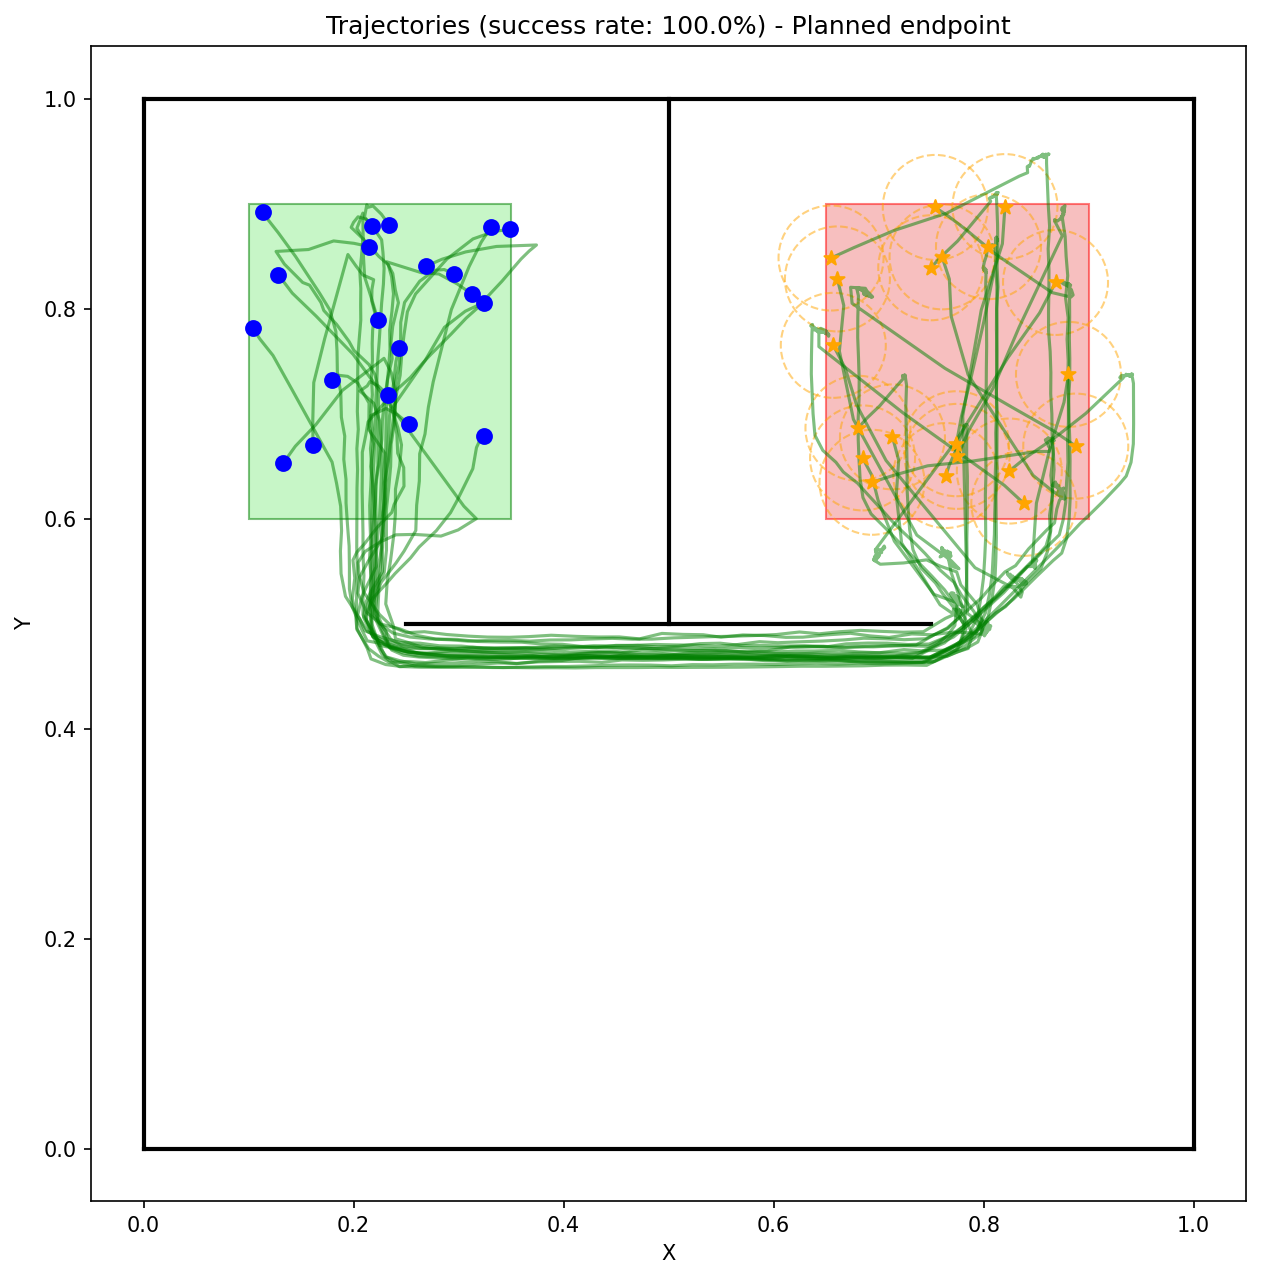
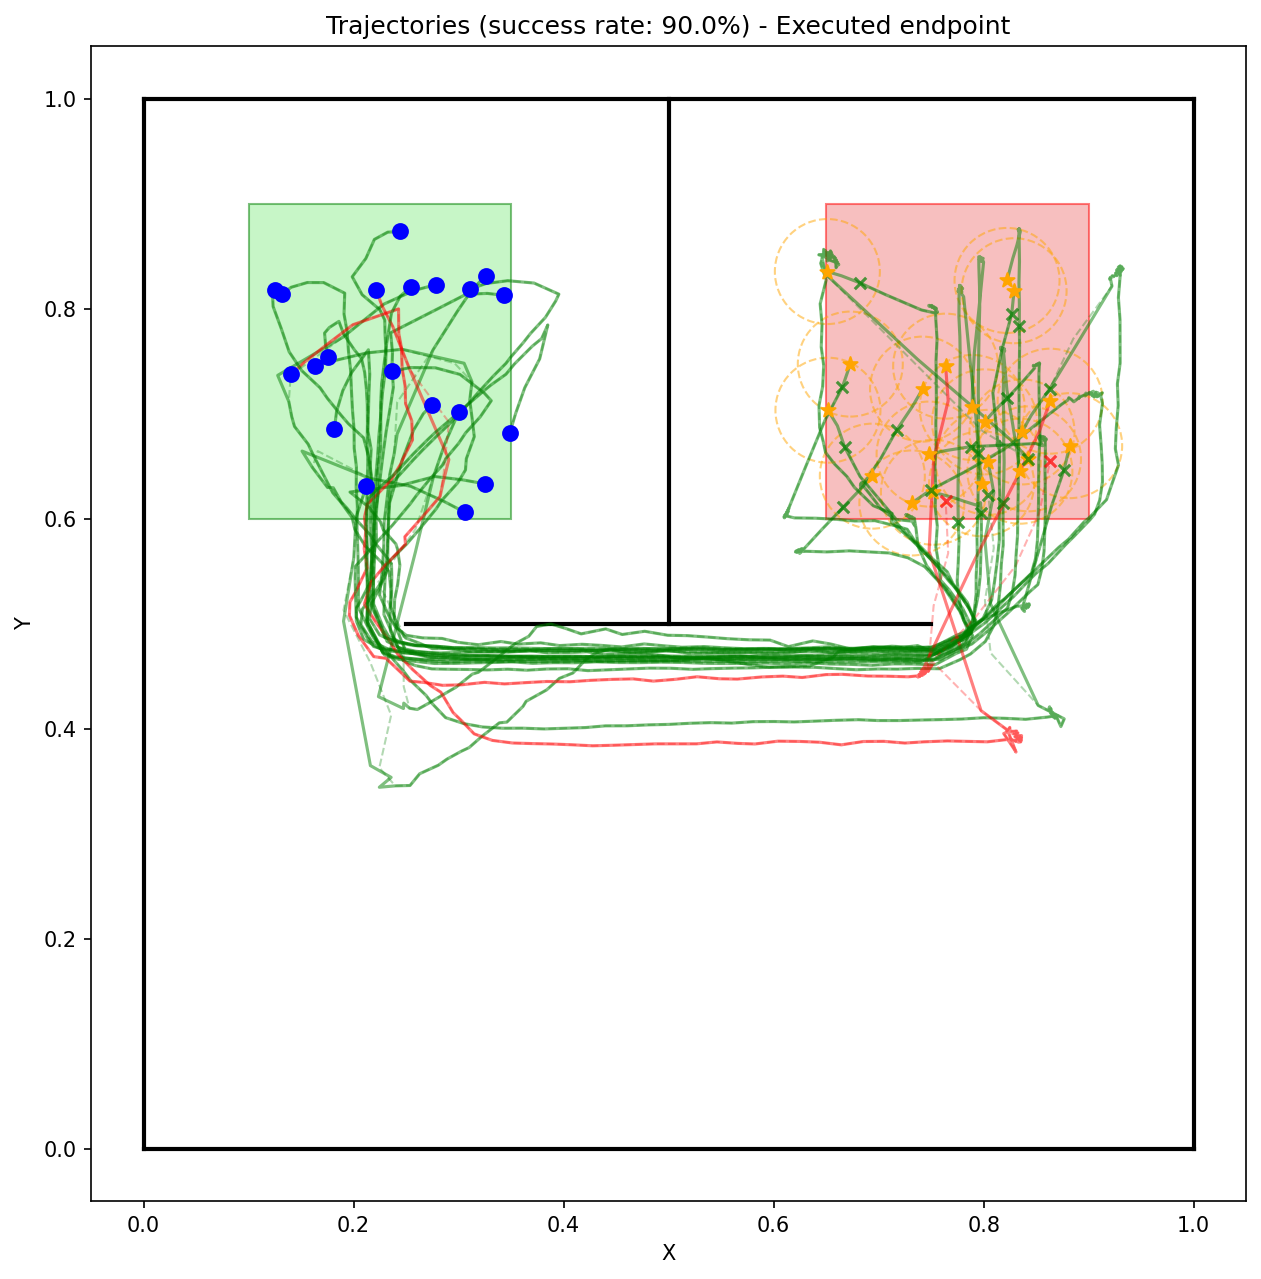
added inverted umaze and smaze layouts for evaluation purposes

diff --git a/maze2d.py b/maze2d.py
@@ -20,6 +20,19 @@ MAZE_CONFIGS = {
         "goal_region": (0.65, 0.6, 0.9, 0.9),  # top-right
     },
 
+    "umaze-inv": {  # Swapped start/goal. To be used during evaluation to test for generalization
+        "walls": [
+            (0.0, 0.0, 1.0, 0.0),
+            (0.0, 1.0, 1.0, 1.0),
+            (0.0, 0.0, 0.0, 1.0),
+            (1.0, 0.0, 1.0, 1.0),
+            (0.25, 0.5, 0.75, 0.5),
+            (0.5, 0.5, 0.5, 1.0),
+        ],
+        "start_region": (0.65, 0.6, 0.9, 0.9),
+        "goal_region": (0.1, 0.6, 0.35, 0.9),
+    },
+
     "smaze": {
         "walls": [
             (0.0, 0.0, 1.0, 0.0),  # bottom
@@ -32,6 +45,20 @@ MAZE_CONFIGS = {
         ],
         "start_region": (0.80, 0.67, 1.0, 1.0),
         "goal_region": (0.0, 0.0, 0.20, 0.33),
+    },
+
+    "smaze-inv": {  # Swapped start/goal. To be used during evaluation to test for generalization
+        "walls": [
+            (0.0, 0.0, 1.0, 0.0),
+            (0.0, 1.0, 1.0, 1.0),
+            (0.0, 0.0, 0.0, 1.0),
+            (1.0, 0.0, 1.0, 1.0),
+
+            (0.30, 0.67, 1.0, 0.67),
+            (0.0, 0.33, 0.70, 0.33),
+        ],
+        "start_region": (0.0, 0.0, 0.20, 0.33),
+        "goal_region": (0.80, 0.67, 1.0, 1.0),
     },
 
     "simple": {

diff --git a/evaluate.py b/evaluate.py
@@ -409,7 +409,7 @@ def evaluate(diffusion, normalizer, env, num_episodes=10, horizon=128, device=to
 def main():
     parser = argparse.ArgumentParser(description="Evaluate Diffuser model")
     parser.add_argument("--checkpoint", type=str, default="checkpoints/final_model.pt")
-    parser.add_argument("--maze-type", type=str, default="umaze", choices=["umaze", "smaze", "simple"])
+    parser.add_argument("--maze-type", type=str, default="umaze", choices=["umaze", "umaze-inv", "smaze", "smaze-inv", "simple"])
     parser.add_argument("--num-episodes", type=int, default=10)
     parser.add_argument("--horizon", type=int, default=128)
     parser.add_argument("--diffusion-steps", type=int, default=100)
